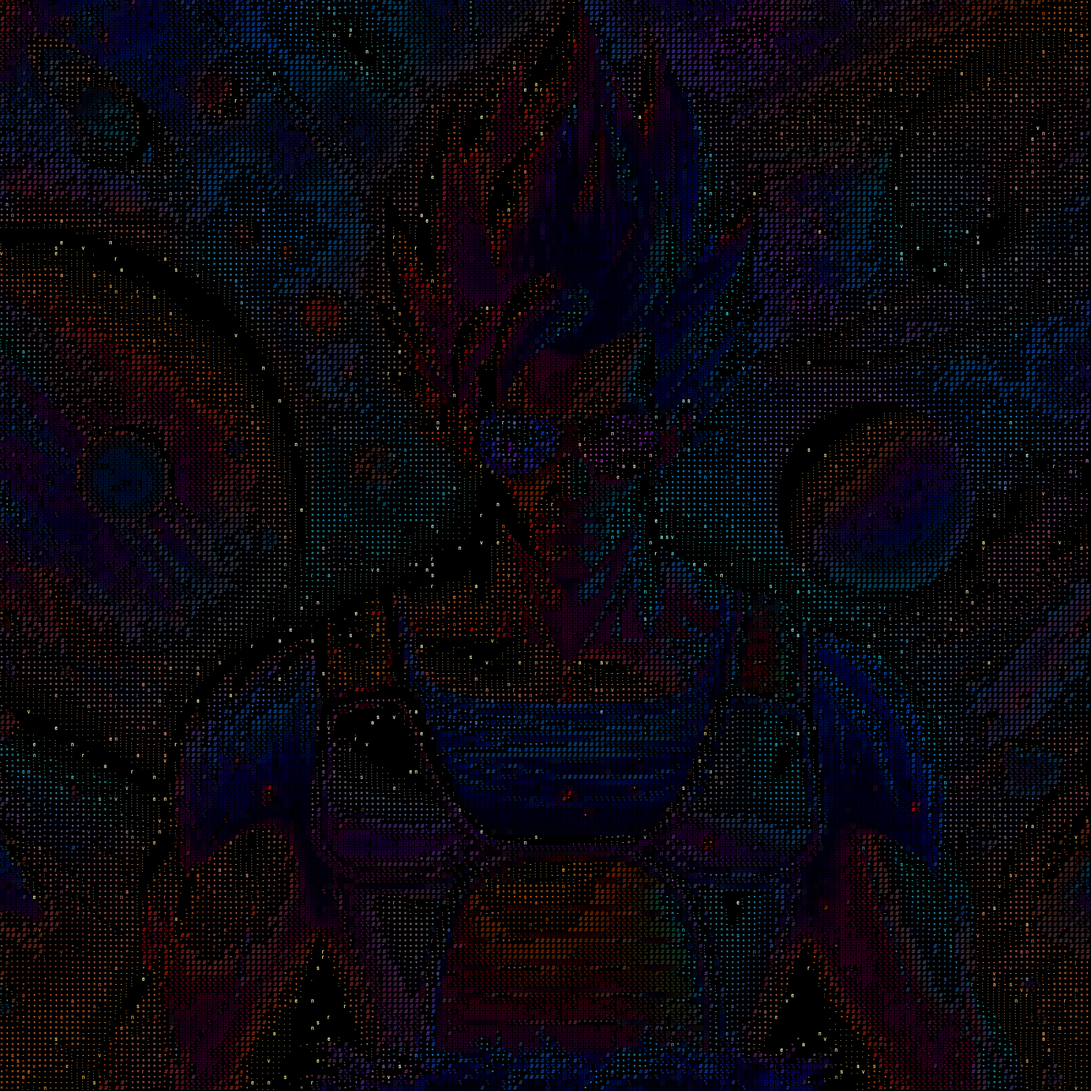
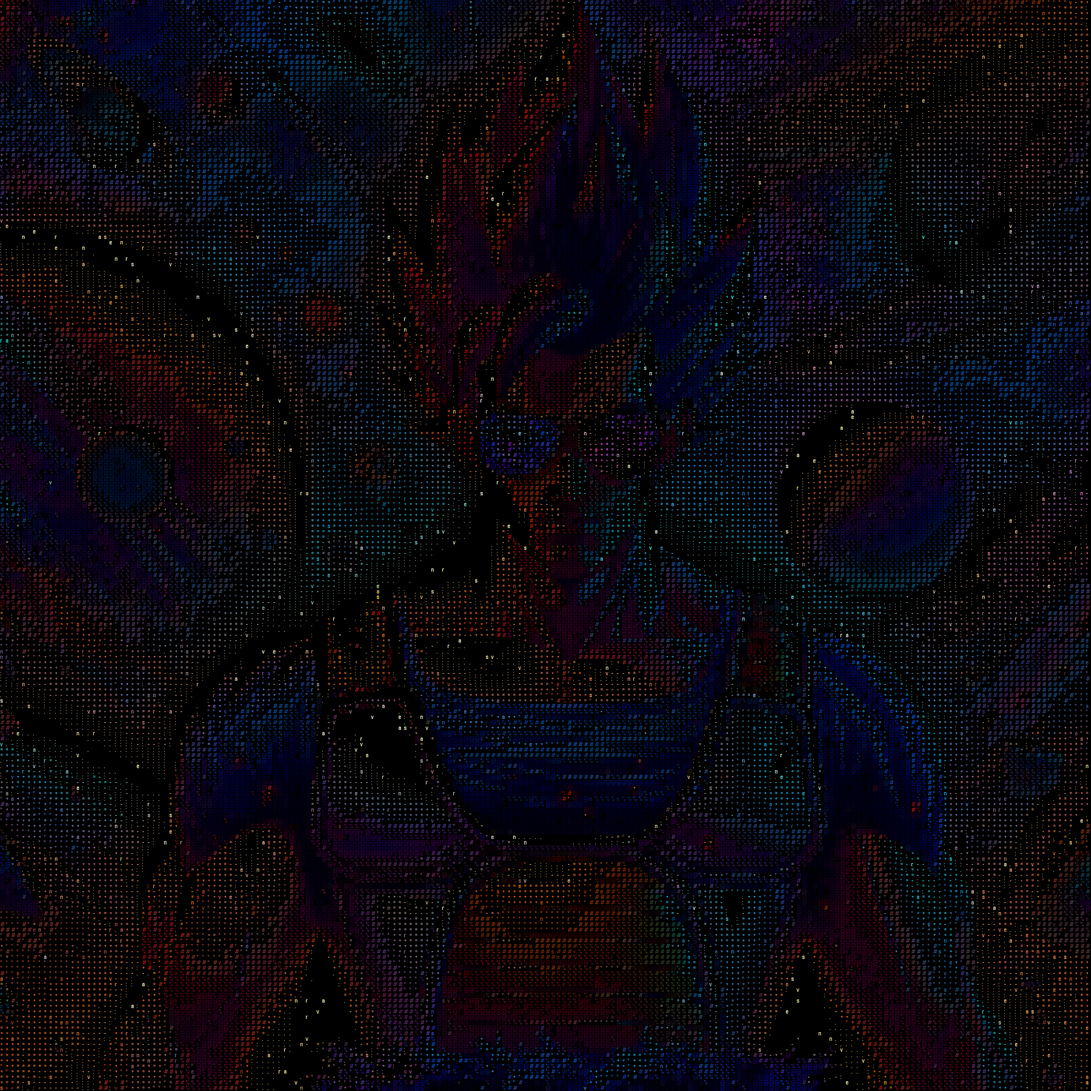
animated version

Changed region(s): [[0.992, 0.31, 1.0, 0.341], [0.527, 0.992, 0.558, 1.0]]

diff --git a/ascii-animated.py b/ascii-animated.py
@@ -1,0 +1,49 @@
+from PIL import Image, ImageDraw, ImageFont, ImageSequence
+import numpy as np
+import random
+
+def get_ascii_char(value, ascii_chars):
+    return ascii_chars[int(value / 256 * len(ascii_chars))]
+
+def create_ascii_frame(img, font, ascii_chars, hidden_code, probability=0.05):
+    gray_img = img.convert("L")
+    ascii_image = Image.new("RGB", img.size, color="black")
+    draw = ImageDraw.Draw(ascii_image)
+    code_index = 0
+
+    for i in range(0, img.height, font.size):
+        for j in range(0, img.width, font.size):
+            if random.random() < probability:
+                char = hidden_code[code_index % len(hidden_code)]
+                code_index += 1
+            else:
+                char = get_ascii_char(gray_img.getpixel((j, i)), ascii_chars)
+            color = img.getpixel((j, i))
+            draw.text((j, i), char, fill=color, font=font)
+
+    return ascii_image
+
+def generate_animated_ascii(image_path, grid_width, font_path, font_size, hidden_code, num_frames):
+    img = Image.open(image_path)
+    aspect_ratio = img.height / img.width
+    new_width = grid_width * font_size
+    new_height = int(aspect_ratio * new_width)
+    img = img.resize((new_width, new_height))
+    font = ImageFont.truetype(font_path, font_size)
+    ascii_chars = "@%#*+=-:. "  # Darker to lighter
+    frames = []
+
+    for _ in range(num_frames):
+        frame = create_ascii_frame(img, font, ascii_chars, hidden_code)
+        frames.append(frame)
+
+    return frames
+
+# Usage
+image_path = 'svenra.png'
+font_path = 'Industry-Demi.ttf'
+frames = generate_animated_ascii(image_path, 150, font_path, 10, "svenra", 10)  # 10 frames
+
+
+# Save as GIF
+frames[0].save('animated_ascii.gif', save_all=True, append_images=frames[1:], loop=0, duration=100)
